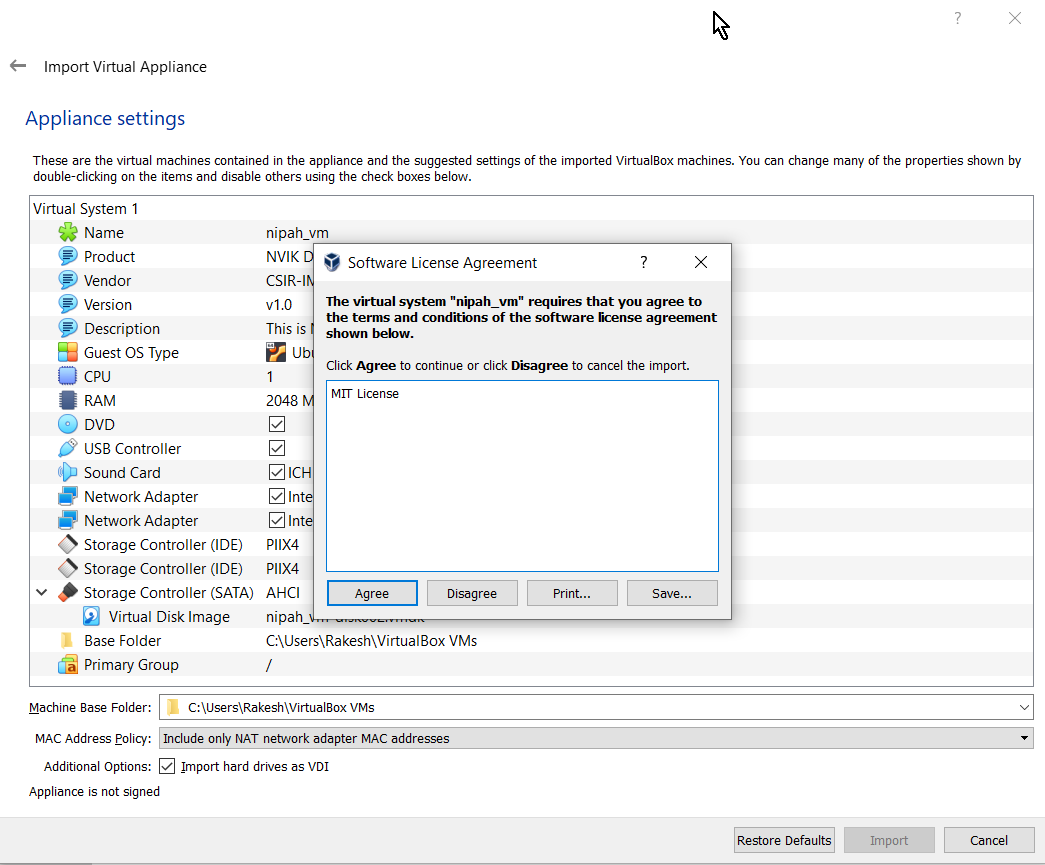
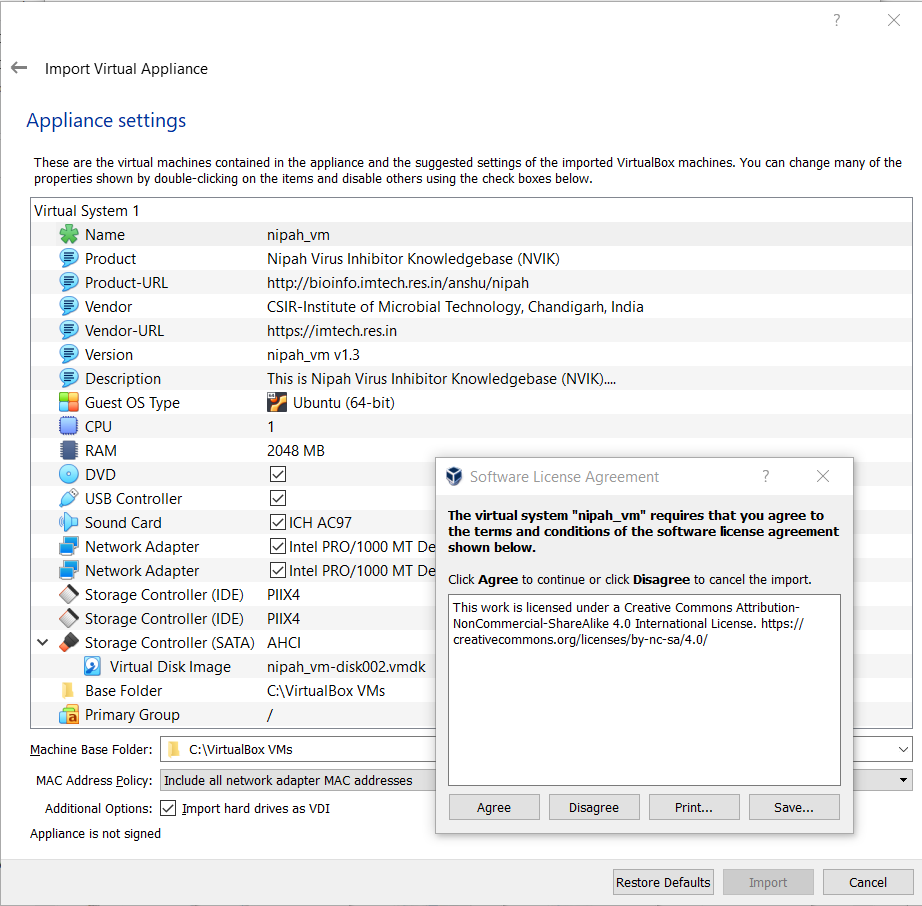
update vbox.php and vbox images

diff --git a/vbox.php b/vbox.php
@@ -18,26 +18,26 @@ echo "<title>NVIK VirtualBox</title>";
 	<a name="top"></a>
 	<div id="col1">
 		<p><center>
-			<h2>NVIK Database Virtual Machine for VirtualBox</h2>
+			<h2>Nipah Virus Inhibitor Knowledgebase (NVIK) Virtual Machine for VirtualBox</h2>
 			</center>
 		</p>
 		<hr />
 		<p align="justify">
 			<font size="3" face="Arial"> This page facilitates users to import
-				NVIK Database Virtual Machine (VM) for Oracle VirtualBox. Users need
+				NVIK Virtual Machine (VM) for Oracle VirtualBox. Users need
 				to install Oracle VirtualBox Version 6.1.12 or higher on their
-				computer after that user can import NVIK Database VM in VirtualBox.
+				computer after that user can import NVIK VM in VirtualBox.
 				Following is brief description...<br />
 				<ul>
 					<li><font size="3"><a href="#vboxdownload">Downloading Oracle
 								VirtualBox Software</a></font></li>
 					<li><font size="3"><a href="#vboxinstall">Installation of Oracle 
 								VirtualBox</a></font></li>
-					<li><font size="3"><a href="#vboxova">Downloading NVIK Database
+					<li><font size="3"><a href="#vboxova">Downloading NVIK
 								"nipah_vm.ova" VM appliance file</a></font></li>
-					<li><font size="3"><a href="#vboximport">Import NVIK Database
+					<li><font size="3"><a href="#vboximport">Import NVIK
 								Virtual machine in VirtualBox</a></font></li>
-					<li><font size="3"><a href="#vboxrun">Run and Update NVIK Database
+					<li><font size="3"><a href="#vboxrun">Run and Update NVIK
 								Virtual machine in VirtualBox</a></font></li>
 				</ul>
 				<hr /> <a name="vboxdownload"> <font size="3"><u>Downloading Oracle
@@ -54,7 +54,7 @@ echo "<title>NVIK VirtualBox</title>";
 				<hr /> <a name="vboxinstall"> <font size="3"><u>Installation of
 							Oracle VirtualBox</u></font><br />
 			</a> <br />User can install VirtualBox with its extension packs and
-				proceed to import NVIK Database VM "nipah_vm". User should follow
+				proceed to import NVIK VM "nipah_vm". User should follow
 				below mentioned steps to install VirtualBox on their machine.<b></b>
 				<ul>
 					<li>Windows users can install VirtualBox by double clicking on the
@@ -88,15 +88,14 @@ echo "<title>NVIK VirtualBox</title>";
 					</tr>
 				</table>
 
-				<hr /> <br /> <a name="vboxova"> <font size="3"><u>Downloading NVIK
-							Database "nipah_vm.ova" VM appliance file</u></font>
-			</a> <br /> <br /> User should download NVIK Database VM "nipah_vm"
+				<hr /> <br /> <a name="vboxova"> <font size="3"><u>Downloading NVIK "nipah_vm.ova" VM appliance file</u></font>
+			</a> <br /> <br /> User should download NVIK VM "nipah_vm"
 				for import VM appliance in VirtualBox. It is .ova file of ~4.3 GB
 				size. The VM is based on Ubuntu 12.04 x64 with configuration 1
 				processor, 2 GB RAM, 15 GB HDD disk space, Two network (NAT, Host
 				only) requires in VirtualBox for its working.
 				<ul>
-					<li><font size="4"><b> <a href="data/nipah_vm.ova">Click
+					<li><font size="4"><b> <a href="http://ab-openlab.csir.res.in/anshu/nipah/data/nipah_vm.ova">Click
 							here to download "nipah_vm.ova" file</a></b></font></li>
 				</ul> <br />
 
@@ -125,7 +124,7 @@ echo "<title>NVIK VirtualBox</title>";
 					</li>
 					
 
-					<li>Browse and give your NVIK Database VM appliance file
+					<li>Browse and give your NVIK VM appliance file
 						"nipah_vm.ova" path in Appliance to Import as shown in the figure
 						below and click next<br /> <br />
 
@@ -151,8 +150,7 @@ echo "<title>NVIK VirtualBox</title>";
 							</table>
 					</li>
 					</li>
-					<li>Your VM is created after import VM and you can see NVIK
-						Database VM "nipah_vm" your new VM name in the list. <br>For more
+					<li>Your VM is created after import VM and you can see NVIK VM "nipah_vm" your new VM name in the list. <br>For more
 							details about Import Wizard, please visit <a
 							href="https://docs.oracle.com/cd/E26217_01/E26796/html/qs-import-vm.html">https://docs.oracle.com/cd/E26217_01/E26796/html/qs-import-vm.html</a></br>
 						<table width="700">
@@ -170,14 +168,10 @@ echo "<title>NVIK VirtualBox</title>";
 											to Top</u></b></font></a></td>
 					</tr>
 				</table>
-				<hr /> <a name="vboxrun"> <font size="3"><u>Run and Update NVIK
-							Database Virtual machine in VirtualBox</u></font><br />
+				<hr /> <a name="vboxrun"> <font size="3"><u>Run and Update NVIK Virtual machine in VirtualBox</u></font><br />
 				<br />
-					<li>You can run the NVIK Database VM "nipah_vm" from the
-						VirtualBox and it will run VM with autologin to user "nipah" with
-						password "nipah_vm", start Apache webserver and MySQL database, and after that
-						it will open firefox by detault to show NVIK Database in VM on URL <a href="http://localhost/nipah/" target=_blank>http://localhost/nipah</a>.</li></a>
-						<br>You can also check database from VirtualBox host machine at URL <a href="http://192.168.56.101/nipah/" target=_blank>http://192.168.56.101/nipah/</a> due to host-only adaptor network default IP address</br>
+					<li>You can run the NVIK VM "nipah_vm" from the VirtualBox. It will start VM with auto-login to user "nipah" with password "nipah_vm", auto-start Apache webserver and MySQL database, then it will auto-open firefox by default after two minutes of the system starts to show NVIK in VM on URL <a href="http://localhost/nipah/" target=_blank>http://localhost/nipah</a>.</li></a>
+						<br>You can also check NVIK from VirtualBox host machine at URL <a href="http://192.168.56.101/nipah/" target=_blank>http://192.168.56.101/nipah/</a> using default IP address of host-only adaptor network</br>
 				<table width="700">
 					<tr>
 						<td align="center"><a href="images/vbox/vbox7.png"><img
@@ -191,11 +185,11 @@ echo "<title>NVIK VirtualBox</title>";
 											to Top</u></b></font></a></td>
 					</tr>
 				</table>
-				<li>You can clone NVIK Database source code from GitHub into your
+				<li>You can clone NVIK source code from GitHub URL <a href="https://github.com/tinabioinfo/nipah" target=_blank>https://github.com/tinabioinfo/nipah</a> into your
 					persoanl system or "nipah_vm" VM. <br><br/>
 					Go to the web directory: <b> $ cd /opt/lampp/htdocs/</b></br>
 					<br>For new repository:<b> $ sudo git clone
-						https://github.com/tinabioinfo/nipah</b></br> <br>For existing
+						https://github.com/tinabioinfo/nipah.git</b></br> <br>For existing
 						repository: <b>$ cd nipah; $ sudo git pull origin master; </b></br>
 						<br>Update folder permission: <b>$ sudo chown -R daemon.daemon /opt/lampp/htdocs/nipah/</b></br>
 						<br>Then
